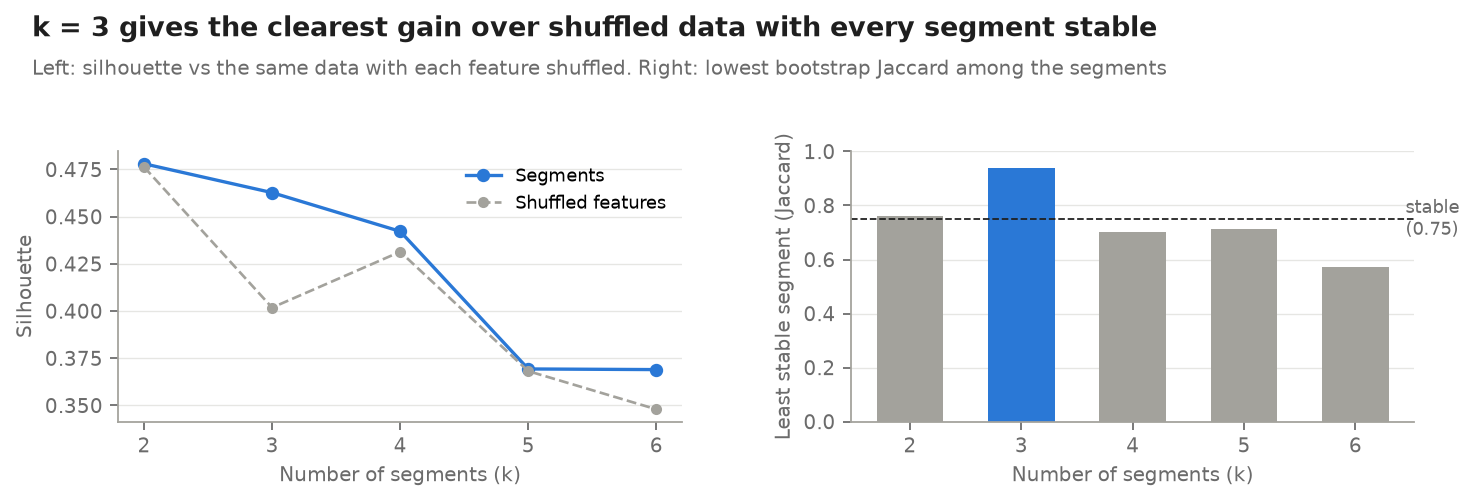
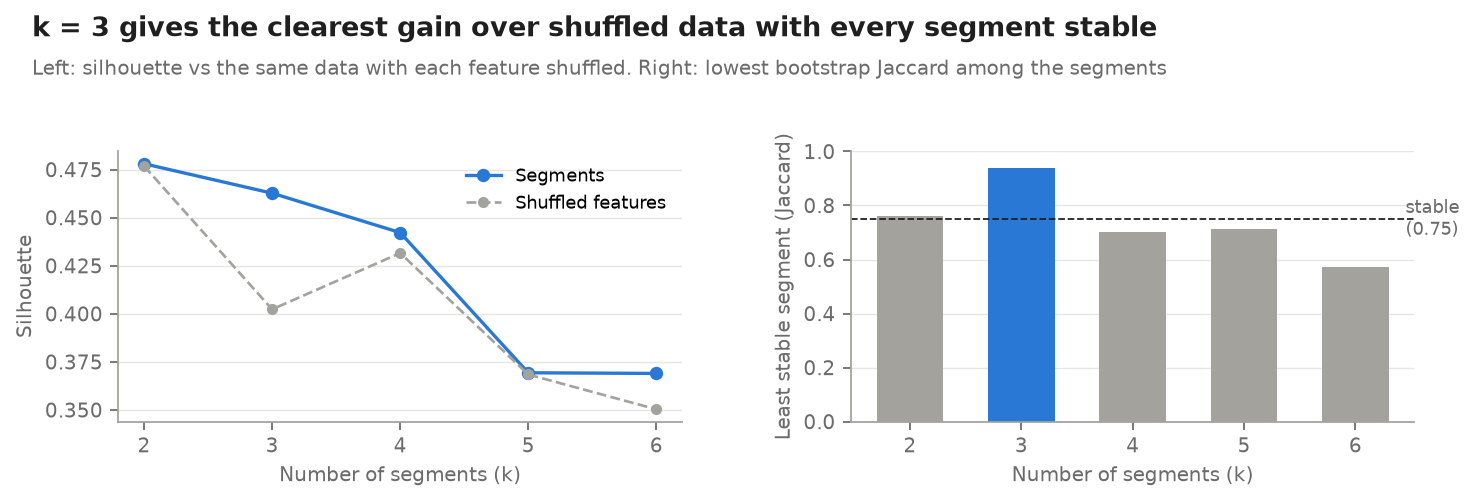
Hold the shuffled baseline in one partition too
On Databricks the segments matched the local run exactly but the shuffled-baseline silhouette did not, because shuffled copies were not single-partition. k = 3 is chosen either way; notebook 20 section 3, the plan and the k-selection figure now use the reproducible baseline (gap 0.060).

diff --git a/src/retail_promo/analysis/segments.py b/src/retail_promo/analysis/segments.py
@@ -179,7 +179,11 @@ def choose_k(
     """Silhouette, shuffled-baseline silhouette and per-segment bootstrap Jaccard for each k."""
     # No .cache(): serverless does not allow it; fit_df is a small in-memory table (see phase3.run).
     X = scaler(fit_df).transform(fit_df).select("household_key", "features", *INPUTS)
-    pdf = X.select("household_key", *INPUTS).toPandas()
+    pdf = (
+        X.select("household_key", *INPUTS)
+        .toPandas()
+        .sort_values("household_key", ignore_index=True)
+    )
     ev = ClusteringEvaluator()
     summary, per_segment = [], []
     for k in ks:
@@ -187,7 +191,8 @@ def choose_k(
         full = _labels(model, X)
         null_sil = []
         for r in range(n_null):
-            sdf = spark.createDataFrame(shuffled(pdf, INPUTS, seed=r))
+            # One partition, like the real data, so the baseline is the same on any machine.
+            sdf = spark.createDataFrame(shuffled(pdf, INPUTS, seed=r)).coalesce(1)
             XS = scaler(sdf).transform(sdf)
             null_sil.append(ev.evaluate(fit_best(XS, k).transform(XS)))
         jac = {c: [] for c in sorted(full.unique())}

diff --git a/notebooks/20_customer_segments.py b/notebooks/20_customer_segments.py
@@ -97,8 +97,8 @@ show(plots.k_selection(res.k_summary, res.k), "phase3_k_selection")
 # COMMAND ----------
 
 # MAGIC %md
-# MAGIC - k = 3 is chosen: silhouette 0.463 against 0.402 for shuffled data (gap 0.061, the largest), and every segment is stable (Jaccard 0.951, 0.937 and 0.962 for segments 1–3).
-# MAGIC - k = 2 is stable but barely beats shuffled data (0.478 vs 0.476, gap 0.002). From k = 4 at least one segment falls below 0.75 (lowest 0.701 at k = 4), and no other k has a gap above 0.021.
+# MAGIC - k = 3 is chosen: silhouette 0.463 against 0.402 for shuffled data (gap 0.060, the largest), and every segment is stable (Jaccard 0.951, 0.937 and 0.962 for segments 1–3).
+# MAGIC - k = 2 is stable but barely beats shuffled data (0.478 vs 0.477, gap 0.001). From k = 4 at least one segment falls below 0.75 (lowest 0.701 at k = 4), and no other k has a gap above 0.019.
 # MAGIC - A silhouette near 0.46 means real but modest structure: these are useful groups along a continuum, not sharply separated types.
 
 # COMMAND ----------

diff --git a/docs/phase3_plan.md b/docs/phase3_plan.md
@@ -44,7 +44,7 @@ Households: 2,402 with ≥ 10 baskets are used to fit. The 98 with fewer are ass
 - Choose, among the k whose segments are all stable, the one with the **largest gap** over the shuffled baseline (the idea of the gap statistic, Tibshirani, Walther & Hastie 2001).
 - Reproducibility: the household table is held in one sorted partition, because k-means' random starts and the bootstrap samples depend on how Spark partitions the data.
 - Preliminary (4 adjusted features before merging promotion and discount): k = 4 has silhouette 0.434 vs 0.329 shuffled (gap +0.105) and subsample ARI ≥ 0.94; k = 3 is unstable (ARI down to 0.57). The final choice is made on the 3 features above.
-- **Rule change after the first build (recorded):** the approved rule was "the largest stable k with a clear gap", and the build implemented "clear" as any gap above 0. A re-run with different data partitioning moved k = 4 and k = 5 just over the 0.75 stability line (Jaccard 0.763 and 0.786, gaps 0.016 and 0.009), so that rule picked k = 5 on a near-zero gap. Choosing the largest gap makes "clear" explicit; it selects k = 3 in every run (gap about 0.06–0.08 against at most 0.021 for any other k).
+- **Rule change after the first build (recorded):** the approved rule was "the largest stable k with a clear gap", and the build implemented "clear" as any gap above 0. A re-run with different data partitioning moved k = 4 and k = 5 just over the 0.75 stability line (Jaccard 0.763 and 0.786, gaps 0.016 and 0.009), so that rule picked k = 5 on a near-zero gap. Choosing the largest gap makes "clear" explicit; it selects k = 3 in every run (gap 0.05–0.08 against at most 0.021 for any other k). The shuffled baseline is also held in one sorted partition, so it too is identical on any machine.
 
 ## Profiles (describe, do not define)
 
